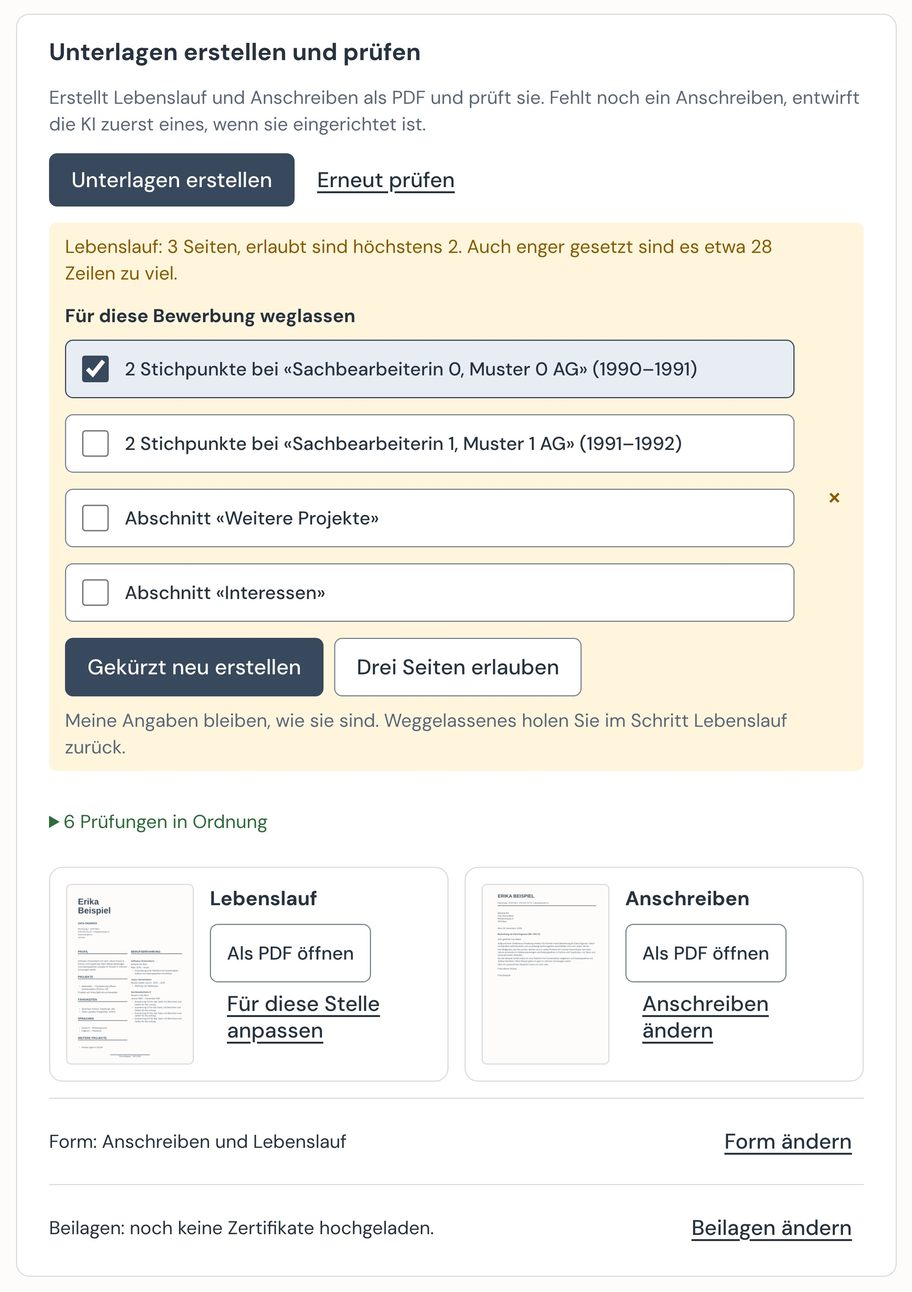
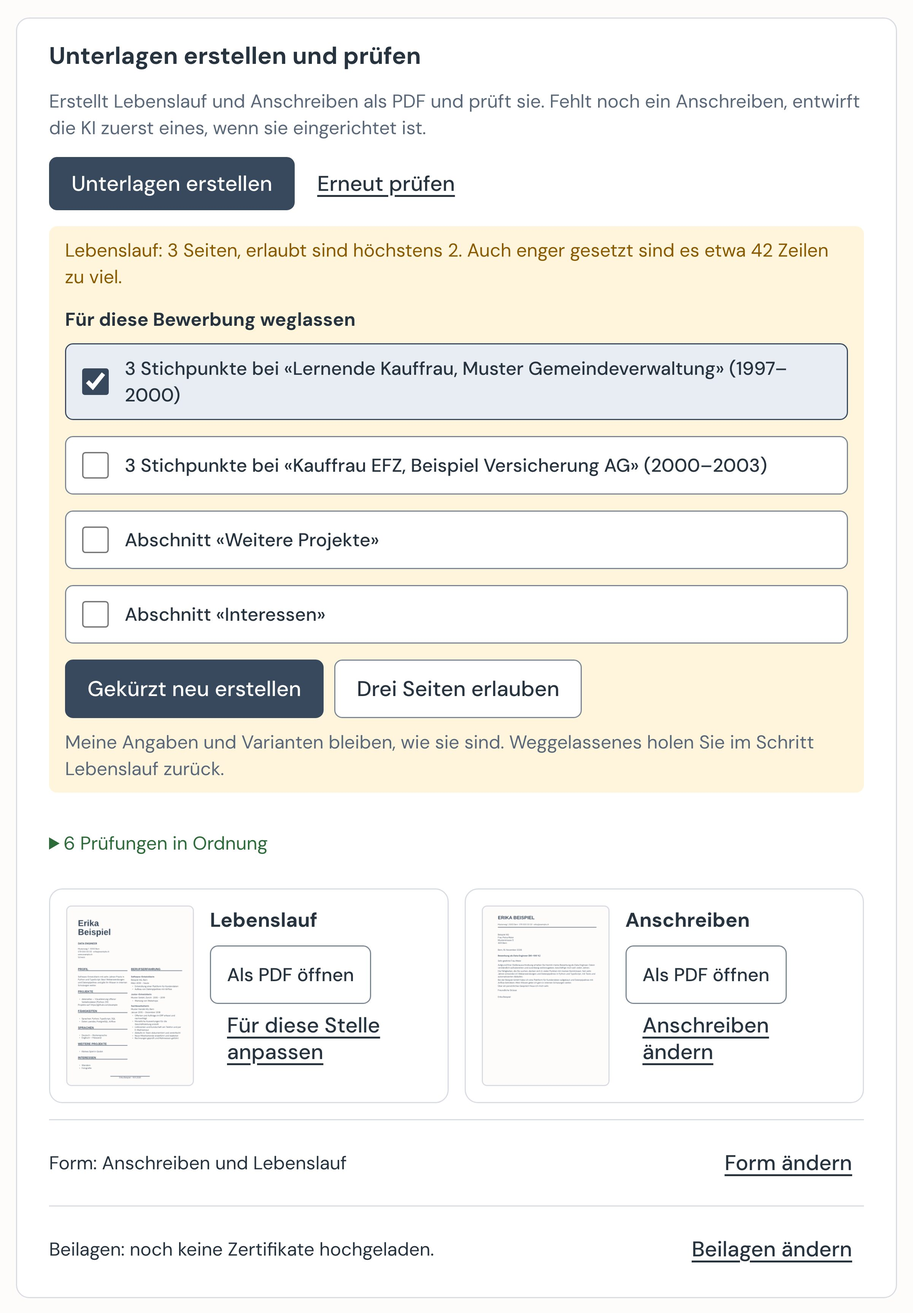
fix(bewerbungen): keep the cut finding open and show progress [G92]
The cut finding has no close button, hides the fill of the page being cut, and says when a cut was not enough. Three pages get a line of their own after the buttons of the step Lebenslauf, with the reviewed copy.

Pullboard-Item: #323

diff --git a/bewerbungen/seiten/bewerbung.js b/bewerbungen/seiten/bewerbung.js
@@ -115,6 +115,11 @@
     if (abschnitt.tagName === "DETAILS") abschnitt.open = true;
     abschnitt.scrollIntoView({ behavior: "smooth", block: "start" });
   };
+  // G92: the card about a CV over its limit leads to the cuts, so the focus goes there too
+  const zuBefund = () => {
+    zuAbschnitt("s-pruefen")();
+    S.focusFirstFinding();
+  };
 
   function zeigeNaechster() {
     const n = L.naechster(daten, { befunde, rav, ki: kiBereit });
@@ -131,7 +136,7 @@
       erstellen: ["Unterlagen erstellen", R.NEXT_CREATE, [knopf("Unterlagen erstellen", () => $("erstellen").click())]],
       pruefen: [R.STEP_TITLE, "Die Prüfung läuft.", []],
       klaeren: [R.STEP_TITLE, R.nextClarify(fehlerZahl), [knopf("Zur Prüfung", zuAbschnitt("s-pruefen"))]],
-      kuerzen: [K.NEXT_TITLE, t("bewerbung.kuerzen"), [knopf("Zur Prüfung", zuAbschnitt("s-pruefen"))]],
+      kuerzen: [K.NEXT_TITLE, t("bewerbung.kuerzen"), [knopf("Zur Prüfung", zuBefund)]],
       bestaetigen: ["Unterlagen ansehen", "Die Prüfung meldet etwas am Satz der PDFs, mit Dokument und Seite. Erst nach «So lassen» öffnet sich ein Formular.", [knopf("Zur Prüfung", zuAbschnitt("s-pruefen"))]],
       formular: [`Formular bei ${b.firma} ausfüllen`, t("bewerbung.formular"), [knopf("Formular öffnen", e => oeffneFormular(e.currentTarget, false)), knopf("Per E-Mail beworben? Versand erfassen", zuAbschnitt("versand-titel"), false)]],
       versand: ["Abschicken und festhalten", t("bewerbung.versand"), [knopf("Versand erfassen", zuAbschnitt("versand-titel"))]],
@@ -206,7 +211,8 @@
     $("freigabe-zeile").hidden = !zeigen;
     $("freigeben").hidden = !freigabe.noetig || freigabe.freigegeben;
     $("anschreiben-aendern").href = "/inhalte?" + new URLSearchParams({ datei: `bewerbungen/${ID}/anschreiben.yaml`, ansicht: "text" });
-    zeile($("freigabe-status"), !zeigen || !freigabe.noetig ? ""
+    // the page draws this again after each load and check; a live region would say an unchanged line again
+    window.Meldungen.zeigeNeu($("freigabe-status"), !zeigen || !freigabe.noetig ? ""
       : freigabe.freigegeben ? `Freigegeben am ${datum(freigabe.am)}. Eine Änderung am Text hebt die Freigabe auf.`
         : "Noch nicht freigegeben. Erst mit der Freigabe öffnet die Erweiterung das Formular.", freigabe.freigegeben ? "ok" : "");
     zeigeKiPruefung(zeigen);
@@ -379,7 +385,10 @@
     const zeile = L.befundZeile(b);
     if (zeile.kuerzen) {  // G92: the cuts to tick instead of «So lassen»
       const chooser = KU.chooser(zeile.kuerzen, { entryId: ID, note: t("kuerzen.hinweis"), after: nachKuerzen });
-      return window.Meldungen.listenZeile(document, el("span", { class: "cut-finding" }, zeile.text, chooser), zeile.stufe);
+      const satz = el("span", { id: K.SENTENCE_ID }, zeile.text);
+      const li = window.Meldungen.listenZeile(document, el("span", { class: "cut-finding" }, satz, chooser), zeile.stufe, { schliessbar: false });
+      li.setAttribute("aria-labelledby", K.SENTENCE_ID);
+      return li;
     }
     const inhalt = zeile.knopf
       ? el("span", {}, zeile.text, " ", el("button", { type: "button", class: "btn btn--sm", onclick: e => soLassen(e.currentTarget, b.schluessel) }, zeile.knopf))
@@ -412,7 +421,8 @@
   async function nachKuerzen(aktion, antwort) {
     await laden();
     await laufendePruefung;
-    meldungOben(K.doneMessage(aktion, antwort), antwort.neu_erstellt ? "ok" : "hinweis");
+    const over = K.stillOver(befunde);
+    meldungOben(K.doneMessage(aktion, antwort, over), K.doneLevel(aktion, antwort, over));
     if (aktion !== "zurueck") S.focusFirstFinding();
   }
 

diff --git a/bewerbungen/seiten/kuerzen-logik.js b/bewerbungen/seiten/kuerzen-logik.js
@@ -10,7 +10,9 @@
   const NEXT_TITLE = "Lebenslauf kürzen";
   const BRING_BACK = "Zurückholen";
   const TAKE_BACK = "Zurücknehmen";
-  const THREE_ALLOWED = "Drei Seiten erlaubt";
+  const THREE_ALLOWED = "Drei Seiten erlaubt, nur für diese Bewerbung.";
+  const NOT_ENOUGH = "Der Lebenslauf ist noch zu lang; die nächste Kürzung ist angehakt.";
+  const SENTENCE_ID = "befund-kuerzen-satz";  // names the finding without the rows and buttons in it
   const THREE_ID = "drei-seiten";  // cut_choice.THREE_PAGES
   const LEFT_OUT_TITLE = "Für diese Bewerbung weggelassen";
   const DONE = { kuerzen: "Gekürzt", "drei-seiten": "Drei Seiten erlaubt", zurueck: "Zurückgeholt" };
@@ -34,19 +36,32 @@
     return ticked.length ? { id, weglassen: [...ticked] } : null;
   }
 
-  /** What the step Lebenslauf lists as left out: each cut with «Zurückholen», the third page with «Zurücknehmen». */
+  /** What the step Lebenslauf lists as left out: each cut with «Zurückholen». */
   function leftOut(kuerzungen) {
-    const cuts = ((kuerzungen && kuerzungen.weggelassen) || []).map(entry => ({ id: entry.id, text: entry.text, button: BRING_BACK }));
-    return kuerzungen && kuerzungen.drei_seiten ? [...cuts, { id: THREE_ID, text: THREE_ALLOWED, button: TAKE_BACK }] : cuts;
+    return ((kuerzungen && kuerzungen.weggelassen) || []).map(entry => ({ id: entry.id, text: entry.text, button: BRING_BACK }));
   }
+
+  /** Three pages are allowed, not left out: a line of its own under the list, with «Zurücknehmen»; else null. */
+  function threePages(kuerzungen) {
+    return kuerzungen && kuerzungen.drei_seiten ? { id: THREE_ID, text: THREE_ALLOWED, button: TAKE_BACK } : null;
+  }
+
+  /** Whether the check still finds the CV over its limit, with cuts to tick. */
+  const stillOver = befunde => (befunde || []).some(befund => Boolean(befund.kuerzen));
 
   /** The message after the route answered; stored all the same when the build could not run. */
-  function doneMessage(action, answer) {
+  function doneMessage(action, answer, over) {
     if (!answer.neu_erstellt) return `Gespeichert, aber nicht neu erstellt: ${answer.fehler}`;
-    return `${DONE[action]} und neu erstellt.`;
+    return `${DONE[action]} und neu erstellt.${action === "kuerzen" && over ? ` ${NOT_ENOUGH}` : ""}`;
   }
 
-  const logik = { LEGEND, MAIN, THREE, NEXT_TITLE, LEFT_OUT_TITLE, THREE_ID, rows, buttons, body, leftOut, doneMessage };
+  /** A cut that was not enough is a hint like a build that could not run; all else went as asked. */
+  function doneLevel(action, answer, over) {
+    return answer.neu_erstellt && !(action === "kuerzen" && over) ? "ok" : "hinweis";
+  }
+
+  const logik = { LEGEND, MAIN, THREE, NEXT_TITLE, LEFT_OUT_TITLE, THREE_ID, SENTENCE_ID, rows, buttons, body, leftOut,
+    threePages, stillOver, doneMessage, doneLevel };
   if (typeof module !== "undefined") module.exports = logik;
   else global.KuerzenLogik = logik;
 })(typeof window !== "undefined" ? window : globalThis);

diff --git a/bewerbungen/seiten/meldungen.js b/bewerbungen/seiten/meldungen.js
@@ -92,7 +92,7 @@
    * A line for a list of findings (`ul.befunde`): the search page's problems and hints, the import result. They
    * show together, so each warning or error gets its own close button; `beiSchliessen` lets the page remember it.
    */
-  function listenZeile(document, inhalt, stufe = "", { beiSchliessen = null } = {}) {
+  function listenZeile(document, inhalt, stufe = "", { beiSchliessen = null, schliessbar = true } = {}) {
     const level = STUFEN[stufe] || "";
     const zeile = document.createElement("li");
     if (ALTE_KLASSEN[level]) zeile.dataset.stufe = ALTE_KLASSEN[level];
@@ -101,7 +101,8 @@
     text.className = "status__text";
     text.append(typeof inhalt === "object" ? inhalt : String(inhalt));
     zeile.append(text);
-    if (!BLEIBEN.has(level)) return zeile;
+    // A line that carries what the person must do (G92: the cuts) stays: closed, nothing would be left to act on
+    if (!BLEIBEN.has(level) || !schliessbar) return zeile;
     zeile.classList.add("status--closable");
     zeile.append(knopf(zeile, "×", () => {
       zeile.remove();
@@ -110,7 +111,15 @@
     return zeile;
   }
 
-  const meldungen = { AUSBLENDEN_MS, SCHLIESSEN, zeige, leere, listenZeile };
+  /** Like `zeige` for plain text, but leaves a message that is shown unchanged, so a live region does not repeat it. */
+  function zeigeNeu(element, text, stufe = "") {
+    const shown = element.childNodes && element.childNodes[0];
+    const same = shown && shown.className === "status__text" && shown.textContent === text
+      && (element.dataset.level || "") === (STUFEN[stufe] || "");
+    if (!same) zeige(element, text, stufe);
+  }
+
+  const meldungen = { AUSBLENDEN_MS, SCHLIESSEN, zeige, zeigeNeu, leere, listenZeile };
   if (typeof module !== "undefined") module.exports = meldungen;
   else global.Meldungen = meldungen;
 })(typeof window !== "undefined" ? window : globalThis);

diff --git a/bewerbungen/seiten/bewerbung.html b/bewerbungen/seiten/bewerbung.html
@@ -40,12 +40,13 @@
         </div>
         <div id="vorschlaege" class="application__suggestions"></div>
         <p class="field__hint" id="cv-wie-es-ist" hidden>Diese Variante ist ein fertiges PDF und wird so verwendet, wie es ist.</p>
+        <div class="btn-row"><button type="button" class="btn" id="cv-erstellen-oeffnen" aria-expanded="false" aria-controls="cv-erstellen" hidden>Lebenslauf erstellen</button><a class="btn btn--quiet" id="cv-anpassen" href="/angaben" hidden>Lebenslauf anpassen</a></div>
         <section class="cut-list" id="weggelassen" aria-labelledby="weggelassen-titel" hidden>
           <h3 class="cut-list__title" id="weggelassen-titel">Für diese Bewerbung weggelassen</h3>
           <ul class="cut-list__rows" id="weggelassen-liste"></ul>
-          <p class="status-line" id="weggelassen-status" role="status" aria-live="polite"></p>
         </section>
-        <div class="btn-row"><button type="button" class="btn" id="cv-erstellen-oeffnen" aria-expanded="false" aria-controls="cv-erstellen" hidden>Lebenslauf erstellen</button><a class="btn btn--quiet" id="cv-anpassen" href="/angaben" hidden>Lebenslauf anpassen</a></div>
+        <p class="cut-list__row cut-list__three" id="drei-seiten-zeile" hidden></p>
+        <p class="status-line" id="weggelassen-status" role="status" aria-live="polite"></p>
         <div class="cv-create" id="cv-erstellen" hidden>
           <h3 class="cv-create__title">Lebenslauf für diese Stelle</h3>
           <p class="field__hint">Die App baut ihn aus Ihren Angaben. Was drinsteht und wie er aussieht, wählen Sie getrennt. Danach steht er wie jede Variante zur Wahl.</p>

diff --git a/bewerbungen/seiten/kuerzen.js b/bewerbungen/seiten/kuerzen.js
@@ -53,14 +53,23 @@
     return fieldset;
   }
 
-  /** The list in the step Lebenslauf; hidden without anything left out, and without buttons once sent. */
+  /**
+   * In the step Lebenslauf: the list of what is left out and, below it, the line for three pages; each hidden when
+   * empty, and without buttons once sent.
+   */
   function showLeftOut(kuerzungen, { entryId, sent, after }) {
     const rows = K.leftOut(kuerzungen);
+    const three = K.threePages(kuerzungen);
+    const takeBackButton = (entry, index) => sent ? null : el("button", {
+      type: "button", class: "btn btn--sm", "aria-label": `${entry.button}: ${entry.text}`,
+      onclick: event => takeBack(event.currentTarget, entry, index),
+    }, entry.button);
     $("weggelassen").hidden = !rows.length;
     $("weggelassen-liste").replaceChildren(...rows.map((entry, index) => el("li", { class: "cut-list__row" },
-      el("span", { class: "cut-list__text" }, entry.text),
-      sent ? null : el("button", { type: "button", class: "btn btn--sm", "aria-label": `${entry.button}: ${entry.text}`,
-        onclick: event => takeBack(event.currentTarget, entry, index) }, entry.button))));
+      el("span", { class: "cut-list__text" }, entry.text), takeBackButton(entry, index))));
+    $("drei-seiten-zeile").hidden = !three;
+    $("drei-seiten-zeile").replaceChildren(...(three
+      ? [el("span", { class: "cut-list__text" }, three.text), takeBackButton(three, rows.length)] : []));
 
     async function takeBack(button, entry, index) {
       button.disabled = true;

diff --git a/bewerbungen/seiten/texte.js b/bewerbungen/seiten/texte.js
@@ -294,12 +294,12 @@
     },
     // G92: a CV over its limit is cut or allowed three pages for this application, never kept with «So lassen»
     "bewerbung.kuerzen": {
-      sie: "Der Lebenslauf ist auch eng gesetzt zu lang. Wählen Sie unter «Unterlagen erstellen und prüfen», was für diese Bewerbung wegfällt, oder erlauben Sie drei Seiten.",
-      du: "Der Lebenslauf ist auch eng gesetzt zu lang. Wähle unter «Unterlagen erstellen und prüfen», was für diese Bewerbung wegfällt, oder erlaube drei Seiten.",
+      sie: "Der Lebenslauf ist zu lang, auch enger gesetzt. Wählen Sie unter «Unterlagen erstellen und prüfen», was für diese Bewerbung wegfällt, oder erlauben Sie drei Seiten.",
+      du: "Der Lebenslauf ist zu lang, auch enger gesetzt. Wähle unter «Unterlagen erstellen und prüfen», was für diese Bewerbung wegfällt, oder erlaube drei Seiten.",
     },
     "kuerzen.hinweis": {
-      sie: "Meine Angaben bleiben, wie sie sind. Weggelassenes holen Sie im Schritt Lebenslauf zurück.",
-      du: "Meine Angaben bleiben, wie sie sind. Weggelassenes holst du im Schritt Lebenslauf zurück.",
+      sie: "Meine Angaben und Varianten bleiben, wie sie sind. Weggelassenes holen Sie im Schritt Lebenslauf zurück.",
+      du: "Meine Angaben und Varianten bleiben, wie sie sind. Weggelassenes holst du im Schritt Lebenslauf zurück.",
     },
     "bewerbung.freigeben-offen": {
       sie: "Der Entwurf ist fertig. {aussagen} noch keinen Beleg in Ihren Angaben; gelb markiert.",

diff --git a/bewerbungen/seiten/unterlagen.css b/bewerbungen/seiten/unterlagen.css
@@ -88,7 +88,10 @@
 .cut-list__row { display: flex; flex-wrap: wrap; gap: var(--space-2) var(--space-3); align-items: center; justify-content: space-between; min-height: 44px; padding: var(--space-1) 0; border-bottom: 1px solid var(--line); }
 .cut-list__text { flex: 1 1 220px; min-width: 0; overflow-wrap: anywhere; }
 .cut-list__row .btn { min-height: 44px; }
-.cut-list .status-line:empty { display: none; }
+/* three pages are allowed, not left out: a line of its own below the list */
+.cut-list__three { margin: var(--space-2) 0 0; }
+.cut-list__three[hidden] { display: none; }
+#weggelassen-status:empty { display: none; }
 
 .doc-tiles { display: grid; grid-template-columns: repeat(auto-fill, minmax(240px, 1fr)); gap: var(--space-3); }
 .doc-tiles:empty { display: none; }

diff --git a/bewerbungen/pruefung.py b/bewerbungen/pruefung.py
@@ -98,11 +98,13 @@ def _over_limit(art: str, pages: int, limit: int, as_it_is: bool, cut: Callable[
     return Befund("hinweis", text, schluessel=key)  # a CV variant that is a finished file: the app cannot cut it
 
 
-def layout_findings(pdf: pathlib.Path, art: str, headings: tuple[str, ...] = ()) -> list[Befund]:
-    """The breaches of the layout rules in a generated PDF, each with its own key (G52)."""
+def layout_findings(pdf: pathlib.Path, art: str, headings: tuple[str, ...] = (),
+                    skipped: frozenset[str] = frozenset()) -> list[Befund]:
+    """The breaches of the layout rules in a generated PDF, each with its own key (G52); `skipped` names rules
+    not to report."""
     name = NAMEN[art]
     try:
-        breaches = layout_check.check(pdf, art, headings=headings)
+        breaches = [b for b in layout_check.check(pdf, art, headings=headings) if b.rule not in skipped]
     except (PdfReadError, ValueError, OSError, KeyError, IndexError, TypeError) as fehler:
         return [Befund("hinweis", f"{name}: Der Satz der Seiten liess sich nicht messen ({fehler}). Bitte das PDF "
                                   "selbst ansehen.", schluessel=layout_confirmed.key(pdf, "messung", 1))]
@@ -136,16 +138,20 @@ def pruefe_pdf(pdf: pathlib.Path, art: str, as_it_is: bool = False, limit: int |
     else:
         befunde.append(Befund("ok", f"{name}: Text extrahierbar ({len(seiten)} Seite{'n' if len(seiten) != 1 else ''})"))
     limit = limit or MAX_SEITEN[art]
+    skipped = frozenset()
     if len(seiten) > limit:
         key = None if as_it_is else layout_confirmed.key(pdf, "seiten", limit + 1)
         if art == "lebenslauf" and offer is not None and not as_it_is:
-            befunde.append(_cv_over_limit(pdf, len(seiten), limit, key, offer))
+            over = _cv_over_limit(pdf, len(seiten), limit, key, offer)
+            befunde.append(over)
+            # the last page is the one being cut away: its fill waits until the CV keeps its limit (G92)
+            skipped = frozenset({"fuellung"}) if over.kuerzen else skipped
         else:
             befunde.append(_over_limit(art, len(seiten), limit, as_it_is, cut, key))
     if PLATZHALTER.search(text):
         befunde.append(Befund(content_stufe, f"{name}: Platzhalter gefunden ({PLATZHALTER.search(text).group(0)})"))
     if not as_it_is:
-        befunde += layout_findings(pdf, art, headings)
+        befunde += layout_findings(pdf, art, headings, skipped)
     return befunde
 
 

diff --git a/bewerbungen/tests/test_cv_cuts.py b/bewerbungen/tests/test_cv_cuts.py
@@ -102,6 +102,21 @@ def test_the_cv_finding_cannot_be_confirmed_with_so_lassen(server, three_pages, 
     assert routes_apply.CUT_FIRST in problem
 
 
+def test_the_last_page_fill_of_a_cv_being_cut_waits_until_three_pages_are_allowed(datenordner, tmp_path, three_pages,
+                                                                                  monkeypatch):
+    fill = layout_check.Breach(3, "fuellung", "nur zu 27 % gefüllt, verlangt ist mindestens ein Drittel.")
+    monkeypatch.setattr(layout_check, "check", lambda pdf, part, headings=(): [fill] if part == "lebenslauf" else [])
+    entry = _built(datenordner, tmp_path)
+    page_three = "Lebenslauf, Seite 3: nur zu 27 %"
+
+    being_cut = [f.text for f in pruefung.pruefe(datenordner, entry, TODAY)]
+    cut_choice.store_choice(datenordner, entry, [], True)
+    three_allowed = [f.text for f in pruefung.pruefe(datenordner, entry, TODAY)]
+
+    assert not any(text.startswith(page_three) for text in being_cut), "the page being cut asks for no «So lassen»"
+    assert any(text.startswith(page_three) for text in three_allowed)
+
+
 def test_a_dossier_gets_the_same_finding(datenordner, tmp_path, three_pages):
     register = Register(datenordner)
     register.speichere({**register.hole(BRIEF_ID), "unterlagen": "dossier"})

diff --git a/desktop/tests/test_guide_redesign.py b/desktop/tests/test_guide_redesign.py
@@ -146,3 +146,7 @@ def test_the_pictures_say_what_they_show_today():
     assert "Lebenslauf: 3 Seiten" in picture and "Gekürzt neu erstellen" in picture
     assert "Drei Seiten erlauben" in picture and "So lassen" not in picture
     assert "**Gekürzt neu erstellen**" in check and "**Zurückholen**" in check
+    assert "**Drei Seiten erlaubt, nur für diese Bewerbung.** mit **Zurücknehmen**" in check
+    assert "**Zurücknehmen** bei **Drei Seiten erlaubt** gilt wieder die Grenze von zwei Seiten." in check
+    assert "die nächste Kürzung ist angehakt.**" in check and "Meine Angaben und Varianten bleiben" in check
+    assert "Schliessen" not in picture and "×" not in picture

diff --git a/docs/installation.md b/docs/installation.md
@@ -211,9 +211,9 @@ Gibt es Suchprofil, Stilprofil oder Bausteine schon, fragt die App beim Überneh
 
 1. **Suchen**: Klicken Sie links auf **Stellen** und dann auf **Jetzt suchen**. Die Erweiterung sucht auf den Portalen, in Ihrem Browser und nur, wenn Sie die Suche starten. Ohne gewählte Kantone sucht sie in der ganzen Schweiz; Stellen nahe Ihrem Wohnort stehen dann zuerst. Lässt sich die Suche noch nicht starten, steht der Grund direkt unter dem Knopf, etwa **Zuerst Meine Angaben abschliessen.** Oben fasst eine Zeile die Einstellungen zusammen: Suchbegriffe, Region und Anzahl Portale. Mit **Ändern** oder **Suche einstellen** öffnen Sie die Seite **Suche einstellen** und wählen dort unter **Wo suchen Sie?** die Portale. Region, Pensum, was Sie nicht sehen wollen und den Titelfilter unter **Erweitert** ändern Sie dort ebenfalls: **Ändern** in der Karte öffnet die Felder, **Speichern** gilt ab der nächsten Suche, und der frühere Stand bleibt als Entwurf erhalten. Passen Ihre Begriffe nicht zur Informatik, ist ictjobs zu Beginn ausgeschaltet. Die Suche läuft alle Ihre Suchbegriffe und Orte ab, pro Portal in Etappen von höchstens 30 Suchen mit einer Minute Pause dazwischen, damit die Portale nicht alles auf einmal bekommen. Vor einer langen Suche steht unter **Jetzt suchen**, wie viele Suchen und Etappen es sind und wie lange es etwa dauert; während der Suche zeigt die Seite, auf welchem Portal sie mit welchem Suchbegriff und Ort sucht und bei welcher Suche und Etappe sie ist. Pro Portal holt ein Lauf höchstens 150 neue Inserate, der Rest kommt bei der nächsten Suche. Ihre Suchbegriffe stehen auf **Suche einstellen** unter **Welche Stellen passen zu Ihnen?**: Einen eigenen tragen Sie unter **Eigenen Suchbegriff aufnehmen** ein und klicken auf **Aufnehmen**. Haben Sie einen Begriff aus Versehen entfernt, holt **Rückgängig** in der Meldung ihn an seinen Platz zurück. Die Suche sucht Ihre Begriffe von oben nach unten, die wichtigsten zuerst; ein neuer Begriff kommt ans Ende. Um die Reihenfolge zu ändern, ziehen Sie einen Begriff an den Punkten links an seinen Platz, oder Sie verschieben ihn mit den Pfeilen daneben, auch mit der Tastatur. Die neue Reihenfolge gilt ab der nächsten Suche, und der frühere Stand bleibt als Entwurf erhalten.
 2. **Entscheiden**: Neue Treffer stehen unter **Neu**. Hat ein Treffer noch keine Note, lässt **Bewerten** die KI einschätzen, wie gut er zu Ihnen passt; **Alle prüfen** über der Liste tut das für alle, mit den geschätzten Kosten daneben. Während es läuft, steht im Kasten, welches Inserat die Erweiterung gerade holt und welche Stellen die KI gerade prüft. Beim gewählten Treffer klicken Sie auf **Bewerbung vorbereiten**: Die App legt die Bewerbung an und öffnet sie. **Merken** legt sie an, ohne sie zu öffnen; die Meldung **Gemerkt.** führt mit **Bewerbung öffnen** zu ihr. **Verwerfen** blendet den Treffer aus. Gemerkte Treffer stehen unter **Gemerkt**, verworfene unter **Verworfen**. Mehrere auf einmal merkt **Alle ab Note … merken** unter der Liste: Wählen Sie die Note, die App nennt vorher, welche Treffer das sind, und merkt sie erst, wenn Sie bestätigen. Treffer ohne Note bleiben dabei, wie sie sind.
-3. **Bewerben**: **Heute** zeigt, was als Nächstes zu tun ist, und die Seite **Bewerbungen** den nächsten Schritt jeder Bewerbung. Öffnen Sie eine Bewerbung. Unter **Lebenslauf** wählen Sie die Variante oder erstellen mit **Lebenslauf erstellen** einen Lebenslauf für diese Stelle (siehe [Lebenslauf für eine Stelle erstellen](#lebenslauf-für-eine-stelle-erstellen)). Unter **Unterlagen erstellen und prüfen** wählen Sie, ob die Unterlagen als **Anschreiben und Lebenslauf** entstehen, zwei PDF wie vorgegeben, oder als **Dossier**. Mit Dossier fasst eine Zeile Design, Zeichen und Farbe sowie Begrüssung und Dank zusammen; **Dossier gestalten** öffnet dazu ein Fenster mit einer Vorschau des Deckblatts. Unter **Für diese Bewerbung** wählen Sie das Design, unter **Design pro Seite** eines für einzelne Seiten, dazu Begrüssung und Dank; das gilt erst mit **Übernehmen**, und **Abbrechen** fragt **Änderungen verwerfen?**, wenn Sie Texte geändert haben. Zeichen und Farbe unter **Für alle Dossiers** gelten für alle Dossiers und sind sofort gespeichert. Dann klicken Sie auf **Unterlagen erstellen**. Fehlt noch ein Anschreiben, entwirft die KI dabei zuerst eines; das kann bis zu einer Minute dauern. Der Entwurf ist ein Ausgangspunkt: Lesen Sie ihn, passen Sie ihn mit **Ändern** an die Stelle und die Firma an, und klicken Sie dann auf **Freigeben**. Die App prüft die erstellten PDFs unter **Unterlagen erstellen und prüfen**: wie voll die letzte Seite ist, ob eine Überschrift allein am Ende einer Seite steht und ob Text über den Rand oder über anderen Text läuft. Jeder Befund nennt das Dokument und die Seite und hat einen Knopf **So lassen**; das Formular öffnet sich erst, wenn Sie jeden Befund angesehen und bestätigt haben. Was in Ordnung ist, steht zugeklappt darunter, etwa **6 Prüfungen in Ordnung**. Ist der Lebenslauf auch eng gesetzt zu lang, nennt der Befund, wie viele Zeilen zu viel sind, und statt **So lassen** stehen darunter Kürzungen zum Anhaken, etwa **3 Stichpunkte bei «Station, Firma» (2015–2018)** oder ein ganzer Abschnitt; die erste ist schon angehakt. **Gekürzt neu erstellen** erstellt Lebenslauf und Dossier ohne das Angehakte neu, **Drei Seiten erlauben** lässt drei Seiten zu. Beides gilt nur für diese Bewerbung: Meine Angaben und die Variante bleiben, wie sie sind. Ist der Lebenslauf danach noch zu lang, kommt der Befund wieder, mit der nächsten Kürzung angehakt. Was weggelassen ist, steht unter **Lebenslauf** bei **Für diese Bewerbung weggelassen**, und **Zurückholen** nimmt es wieder auf. Ist das Anschreiben zu lang, nennt der Befund, was sich kürzen liesse; gekürzt wird es nur von Ihnen. Pro Dokument zeigt eine Kachel die erste Seite. **Als PDF öffnen** zeigt das ganze PDF, und ein Link führt dorthin, wo Sie es ändern: **Für diese Stelle anpassen** zur Wahl der Lebenslauf-Variante, bei Ihrem eigenen PDF **In Lebenslauf und Dateien ändern**, **Anschreiben ändern** zum Anschreiben und **Dossier gestalten** zum Dossier. Nach dem Erstellen steht die gewählte Form nur noch als eine Zeile über den Beilagen, etwa **Form: Dossier, Siegel**; **Form ändern** zeigt die Kacheln wieder. Die Beilagen stehen in einer Zeile; **Beilagen ändern** öffnet die Liste der Zertifikate, und **Auswahl speichern** hält sie fest. Danach öffnet **Formular öffnen** das Formular der Firma, und die Erweiterung füllt es aus. Haben Sie schon einen fertigen Lebenslauf, entfällt das Erstellen (siehe [Fertige Dateien verwenden](#fertige-dateien-verwenden)).
+3. **Bewerben**: **Heute** zeigt, was als Nächstes zu tun ist, und die Seite **Bewerbungen** den nächsten Schritt jeder Bewerbung. Öffnen Sie eine Bewerbung. Unter **Lebenslauf** wählen Sie die Variante oder erstellen mit **Lebenslauf erstellen** einen Lebenslauf für diese Stelle (siehe [Lebenslauf für eine Stelle erstellen](#lebenslauf-für-eine-stelle-erstellen)). Unter **Unterlagen erstellen und prüfen** wählen Sie, ob die Unterlagen als **Anschreiben und Lebenslauf** entstehen, zwei PDF wie vorgegeben, oder als **Dossier**. Mit Dossier fasst eine Zeile Design, Zeichen und Farbe sowie Begrüssung und Dank zusammen; **Dossier gestalten** öffnet dazu ein Fenster mit einer Vorschau des Deckblatts. Unter **Für diese Bewerbung** wählen Sie das Design, unter **Design pro Seite** eines für einzelne Seiten, dazu Begrüssung und Dank; das gilt erst mit **Übernehmen**, und **Abbrechen** fragt **Änderungen verwerfen?**, wenn Sie Texte geändert haben. Zeichen und Farbe unter **Für alle Dossiers** gelten für alle Dossiers und sind sofort gespeichert. Dann klicken Sie auf **Unterlagen erstellen**. Fehlt noch ein Anschreiben, entwirft die KI dabei zuerst eines; das kann bis zu einer Minute dauern. Der Entwurf ist ein Ausgangspunkt: Lesen Sie ihn, passen Sie ihn mit **Ändern** an die Stelle und die Firma an, und klicken Sie dann auf **Freigeben**. Die App prüft die erstellten PDFs unter **Unterlagen erstellen und prüfen**: wie voll die letzte Seite ist, ob eine Überschrift allein am Ende einer Seite steht und ob Text über den Rand oder über anderen Text läuft. Jeder Befund nennt das Dokument und die Seite und hat einen Knopf **So lassen**; das Formular öffnet sich erst, wenn Sie jeden Befund angesehen und bestätigt haben. Was in Ordnung ist, steht zugeklappt darunter, etwa **6 Prüfungen in Ordnung**. Ist der Lebenslauf auch eng gesetzt zu lang, nennt der Befund, wie viele Zeilen zu viel sind, und statt **So lassen** stehen darunter Kürzungen zum Anhaken, etwa **3 Stichpunkte bei «Station, Firma» (2015–2018)** oder ein ganzer Abschnitt; die erste ist schon angehakt. **Gekürzt neu erstellen** erstellt Lebenslauf und Dossier ohne das Angehakte neu, **Drei Seiten erlauben** lässt drei Seiten zu. Beides gilt nur für diese Bewerbung: Meine Angaben und Varianten bleiben, wie sie sind. Solange der Lebenslauf zu lang ist, nennt die Prüfung nicht, wie voll seine letzte Seite ist; diese Seite fällt ja weg. Ist der Lebenslauf danach noch zu lang, meldet die App **Gekürzt und neu erstellt. Der Lebenslauf ist noch zu lang; die nächste Kürzung ist angehakt.**, und der Befund kommt wieder, mit der nächsten Kürzung angehakt. Was weggelassen ist, steht unter **Lebenslauf**, nach **Lebenslauf erstellen** und **Lebenslauf anpassen**, bei **Für diese Bewerbung weggelassen**, und **Zurückholen** nimmt es wieder auf. Haben Sie drei Seiten erlaubt, steht darunter die Zeile **Drei Seiten erlaubt, nur für diese Bewerbung.** mit **Zurücknehmen**. **Zurücknehmen** bei **Drei Seiten erlaubt** gilt wieder die Grenze von zwei Seiten. Ist das Anschreiben zu lang, nennt der Befund, was sich kürzen liesse; gekürzt wird es nur von Ihnen. Pro Dokument zeigt eine Kachel die erste Seite. **Als PDF öffnen** zeigt das ganze PDF, und ein Link führt dorthin, wo Sie es ändern: **Für diese Stelle anpassen** zur Wahl der Lebenslauf-Variante, bei Ihrem eigenen PDF **In Lebenslauf und Dateien ändern**, **Anschreiben ändern** zum Anschreiben und **Dossier gestalten** zum Dossier. Nach dem Erstellen steht die gewählte Form nur noch als eine Zeile über den Beilagen, etwa **Form: Dossier, Siegel**; **Form ändern** zeigt die Kacheln wieder. Die Beilagen stehen in einer Zeile; **Beilagen ändern** öffnet die Liste der Zertifikate, und **Auswahl speichern** hält sie fest. Danach öffnet **Formular öffnen** das Formular der Firma, und die Erweiterung füllt es aus. Haben Sie schon einen fertigen Lebenslauf, entfällt das Erstellen (siehe [Fertige Dateien verwenden](#fertige-dateien-verwenden)).
 
-![Abschnitt Unterlagen erstellen und prüfen nach Unterlagen erstellen: gelb der Befund Lebenslauf: 3 Seiten, erlaubt sind höchstens 2, mit etwa 28 Zeilen zu viel, darunter unter Für diese Bewerbung weglassen vier Kürzungen zum Anhaken, die erste angehakt, und die Knöpfe Gekürzt neu erstellen und Drei Seiten erlauben, darunter zugeklappt 6 Prüfungen in Ordnung, je eine Kachel für Lebenslauf und Anschreiben mit der ersten Seite, Als PDF öffnen und dem Link zum Ändern, darunter die Zeile Form: Anschreiben und Lebenslauf mit Form ändern, zuunterst die Zeile der Beilagen mit Beilagen ändern](bilder/pruefung.jpg)
+![Abschnitt Unterlagen erstellen und prüfen nach Unterlagen erstellen: gelb der Befund Lebenslauf: 3 Seiten, erlaubt sind höchstens 2, mit etwa 42 Zeilen zu viel, darunter unter Für diese Bewerbung weglassen vier Kürzungen zum Anhaken, angehakt die erste, 3 Stichpunkte bei «Lernende Kauffrau, Muster Gemeindeverwaltung» (1997–2000), dann die Knöpfe Gekürzt neu erstellen und Drei Seiten erlauben und der Satz, dass Meine Angaben und Varianten bleiben, wie sie sind, darunter zugeklappt 6 Prüfungen in Ordnung, je eine Kachel für Lebenslauf und Anschreiben mit der ersten Seite, Als PDF öffnen und dem Link zum Ändern, darunter die Zeile Form: Anschreiben und Lebenslauf mit Form ändern, zuunterst die Zeile der Beilagen mit Beilagen ändern](bilder/pruefung.jpg)
 
 Abgeschickt wird eine Bewerbung immer von Ihnen selbst.
 

diff --git a/bewerbungen/CLAUDE.md b/bewerbungen/CLAUDE.md
@@ -21,7 +21,7 @@ Verwaltung und lokale Oberfläche des Bewerbungsbegleiters (MIN-261 Ablauf, MIN-
 - `cv_creation.py`, `routes_cv_creation.py` – „Lebenslauf erstellen“ auf der Seite der Bewerbung (G17, #118, Gestaltung A6 in `docs/design`, `seiten/lebenslauf-erstellen.js`, Logik ohne DOM in `seiten/lebenslauf-erstellen-logik.js`): Die Person wählt Stationen aus `cv.yaml` und ihre Reihenfolge, Berufsbezeichnung und Kurzprofil, getrennt davon Zweispaltig oder Einspaltig. Daraus wird ein Zuschnitt `jobs/<variante>.yaml` (`select` und `basics` für `lebenslauf/tailor.py`, `created_for` mit der Bewerbung) und eine Variante in `varianten.yaml`, beide mit Entwürfen; die Bewerbung bekommt `variante` und `lebenslauf_design`, danach baut die Route den Lebenslauf als PDF (mit Dossier erst bei „Unterlagen erstellen“). Speichern ersetzt den eigenen Zuschnitt der Bewerbung, nie eine Variante von Claude mit gleichem Namen (dann `<id>-2`). `stand` (Fingerabdruck von `cv.yaml`) lehnt ab, wenn sich Meine Angaben seit dem Öffnen geändert haben; nach dem Versand bleibt alles, wie es ist. Die KI schlägt noch nichts vor; die Erweiterung und Claude erreichen die Routen nicht.
 - `inhalte.py` – Inhalte (MIN-302): erlaubte Dateien nach Muster, Titel für die Oberfläche, Prüfung je Dateityp mit Probebau im Build-Ordner. Die Seiten zeigen standardmässig das PDF; der Text liegt hinter „Als Text“.
 - `textdokument.py` – Markdown als PDF: markdown-it zerlegt, `typst/dokument.typ` setzt alles als Text (HTML bleibt Text, keine Bilder, Links nur Web/Mail).
-- `pruefung.py` – formale Prüfung der PDFs und des Anschreibens. Seitengrenzen nach G51: Ein gebautes Dokument über der Grenze war schon enger gesetzt, darum nennt der Befund, was sich kürzen lässt (`lebenslauf/cuts.py`, beim Lebenslauf aus dem Zuschnitt der Bewerbung, `unterlagen.tailored_cv`); das Anschreiben ist dann ein Fehler, der Lebenslauf ein Hinweis. Beim Lebenslauf (G92, #323, Option A in `docs/design/seiten-ausgleichen.md`) nennt der Befund, wie viele Zeilen zu viel sind (`layout_check.lines_beyond`), und trägt `kuerzen` statt „So lassen“: die Kürzungen zum Anhaken, die erste angehakt, „Gekürzt neu erstellen“ und „Drei Seiten erlauben“ (`seiten/kuerzen.js`, Logik ohne DOM in `seiten/kuerzen-logik.js`). Gespeichert wird pro Bewerbung in `bewerbungen/<id>/kuerzungen.yaml` (`cv_cuts.py`, Wahl und Prüfung in `cut_choice.py`, Routen `/api/kuerzungen` und `/api/kuerzungen/zurueckholen` in `routes_cuts.py`, mit Entwürfen, danach ein neuer Bau); `unterlagen.py` gibt die Datei jedem Bau als `--kuerzungen` mit, über der gewählten Variante oder dem ganzen Lebenslauf, nie in `cv.yaml` oder einen Zuschnitt, und „Drei Seiten erlauben“ gilt als `--lebenslauf-seiten 3` nur hier. Der Schritt Lebenslauf listet das Weggelassene mit „Zurückholen“. Ein eigenes Lebenslauf-PDF und eine versendete Bewerbung bekommen keine Kürzungen. Den Satz jedes erzeugten PDFs misst `layout_check.py` (G52, #237): Füllung der letzten Seite (Lebenslauf, Anschreiben), allein stehende Überschriften (bekannte Abschnitte und `x-beschriftungen`), Text im Rand des Designs (die Ränder jeder Seite legt der Bau mit `lebenslauf/type_area.py` neben das PDF, #304; Fusszeile und ein erklärtes Band am Fuss gehören dazu, Flächen und Bilder zählen nicht; ohne passende Datei daneben nur Text näher als 20 pt am Rand) und Text über Text oder über den Rand eines Bildes; ein eigenes oder versendetes PDF nicht. Gelesen wird ohne pdftotext mit `pdf_boxes.py`, das die Inhalte der Seiten selbst abläuft (Breiten aus den Schriften). Jede Verletzung nennt Dokument, Seite und Grund und hat einen `schluessel` (Fingerabdruck des PDFs, Regel, Seite); ein Lebenslauf über der Seitengrenze nicht mit „So lassen“, sondern über die Kürzungen oben. Die Person bestätigt sie mit „So lassen“ (`/api/pruefung/bestaetigen`, `layout_confirmed.py`, in `bewerbungen/<id>/pruefung-bestaetigt.yaml`, ohne Entwürfe); bis dahin öffnet `routes_apply` kein Formular, und ein neuer Bau braucht eine neue Bestätigung. Weder die Erweiterung noch Claude erreichen die Route.
+- `pruefung.py` – formale Prüfung der PDFs und des Anschreibens. Seitengrenzen nach G51: Ein gebautes Dokument über der Grenze war schon enger gesetzt, darum nennt der Befund, was sich kürzen lässt (`lebenslauf/cuts.py`, beim Lebenslauf aus dem Zuschnitt der Bewerbung, `unterlagen.tailored_cv`); das Anschreiben ist dann ein Fehler, der Lebenslauf ein Hinweis. Beim Lebenslauf (G92, #323, Option A in `docs/design/seiten-ausgleichen.md`) nennt der Befund, wie viele Zeilen zu viel sind (`layout_check.lines_beyond`), und trägt `kuerzen` statt „So lassen“: die Kürzungen zum Anhaken, die erste angehakt, „Gekürzt neu erstellen“ und „Drei Seiten erlauben“ (`seiten/kuerzen.js`, Logik ohne DOM in `seiten/kuerzen-logik.js`). Gespeichert wird pro Bewerbung in `bewerbungen/<id>/kuerzungen.yaml` (`cv_cuts.py`, Wahl und Prüfung in `cut_choice.py`, Routen `/api/kuerzungen` und `/api/kuerzungen/zurueckholen` in `routes_cuts.py`, mit Entwürfen, danach ein neuer Bau); `unterlagen.py` gibt die Datei jedem Bau als `--kuerzungen` mit, über der gewählten Variante oder dem ganzen Lebenslauf, nie in `cv.yaml` oder einen Zuschnitt, und „Drei Seiten erlauben“ gilt als `--lebenslauf-seiten 3` nur hier. Der Befund hat keinen Knopf zum Schliessen (`listenZeile` mit `schliessbar: false`), und solange er steht, fällt der Befund zur Füllung der letzten Seite des Lebenslaufs weg (die Seite wird gekürzt). Der Schritt Lebenslauf listet nach seinen Knöpfen das Weggelassene mit „Zurückholen“, darunter eine eigene Zeile „Drei Seiten erlaubt, nur für diese Bewerbung.“ mit „Zurücknehmen“. Ein eigenes Lebenslauf-PDF und eine versendete Bewerbung bekommen keine Kürzungen. Den Satz jedes erzeugten PDFs misst `layout_check.py` (G52, #237): Füllung der letzten Seite (Lebenslauf, Anschreiben), allein stehende Überschriften (bekannte Abschnitte und `x-beschriftungen`), Text im Rand des Designs (die Ränder jeder Seite legt der Bau mit `lebenslauf/type_area.py` neben das PDF, #304; Fusszeile und ein erklärtes Band am Fuss gehören dazu, Flächen und Bilder zählen nicht; ohne passende Datei daneben nur Text näher als 20 pt am Rand) und Text über Text oder über den Rand eines Bildes; ein eigenes oder versendetes PDF nicht. Gelesen wird ohne pdftotext mit `pdf_boxes.py`, das die Inhalte der Seiten selbst abläuft (Breiten aus den Schriften). Jede Verletzung nennt Dokument, Seite und Grund und hat einen `schluessel` (Fingerabdruck des PDFs, Regel, Seite); ein Lebenslauf über der Seitengrenze nicht mit „So lassen“, sondern über die Kürzungen oben. Die Person bestätigt sie mit „So lassen“ (`/api/pruefung/bestaetigen`, `layout_confirmed.py`, in `bewerbungen/<id>/pruefung-bestaetigt.yaml`, ohne Entwürfe); bis dahin öffnet `routes_apply` kein Formular, und ein neuer Bau braucht eine neue Bestätigung. Weder die Erweiterung noch Claude erreichen die Route.
 - `page_limit.py`, `routes_page_limit.py`, `seiten/seitengrenze.js` – Länge des Lebenslaufs (G51): unter „Einstellungen“, „Erweitert“ ein Schalter für drei statt zwei Seiten, in `unterlagen.yaml` des Datenordners (mit Entwurf). `unterlagen.py` gibt ihn jedem Bau des Lebenslaufs und des Dossiers als `--lebenslauf-seiten` mit, die Prüfung misst daran (`cv_cuts.pages`: drei, wenn die Bewerbung sie mit „Drei Seiten erlauben“ zulässt, G92). Weder die Erweiterung noch Claude erreichen die Route. `unterlagen.yaml` teilen sich Seitengrenze und Foto (`document_settings.py`); jedes schreibt nur seinen Schlüssel.
 - `photo_shown.py` – „Im Lebenslauf zeigen“ beim aktiven Foto auf „Lebenslauf und Dateien“ (G62, #281): voreingestellt an, aus baut `unterlagen.py` neue Lebensläufe und Dossiers mit `--ohne-foto` (auch die Vorschau in `inhalte.py`); das Foto bleibt aktiv, `cv.yaml` bleibt, wie es ist, Gebautes und Versendetes auch. Route `/api/foto/zeigen`, den Stand nennt `/api/foto/liste`; weder die Erweiterung noch Claude erreichen sie.
 - `versand.py` – Versand erfassen: ablegen (dedupliziert), Entwürfe genutzt, Register, Git falls vorhanden; `versendete` listet die Versionen aus Register und Ablage.
